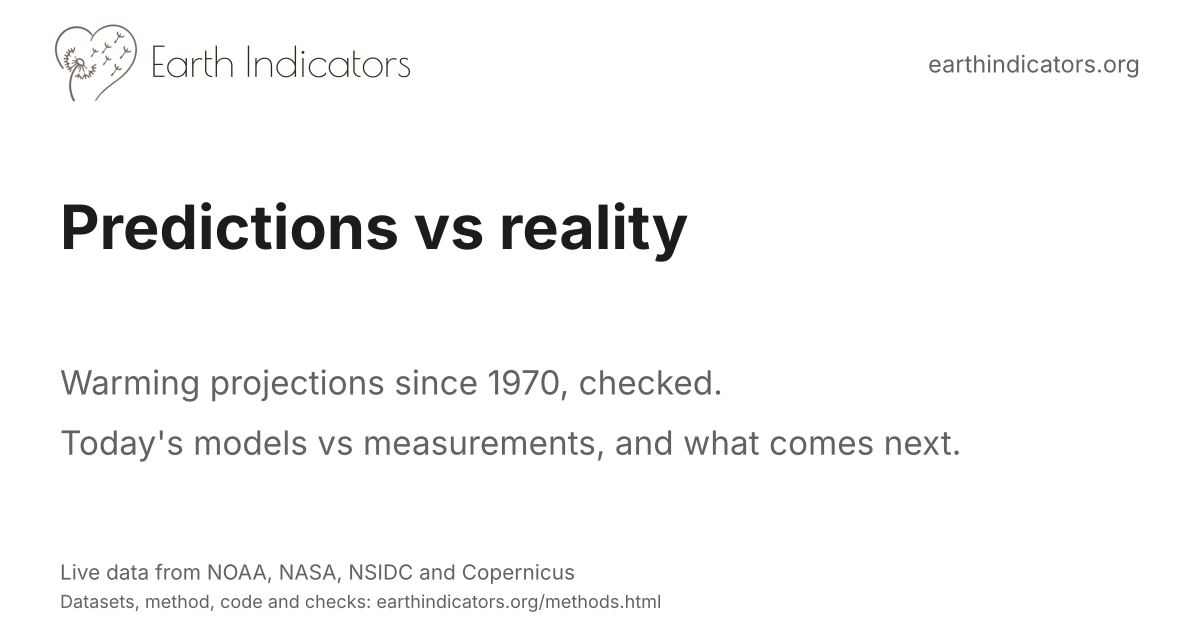
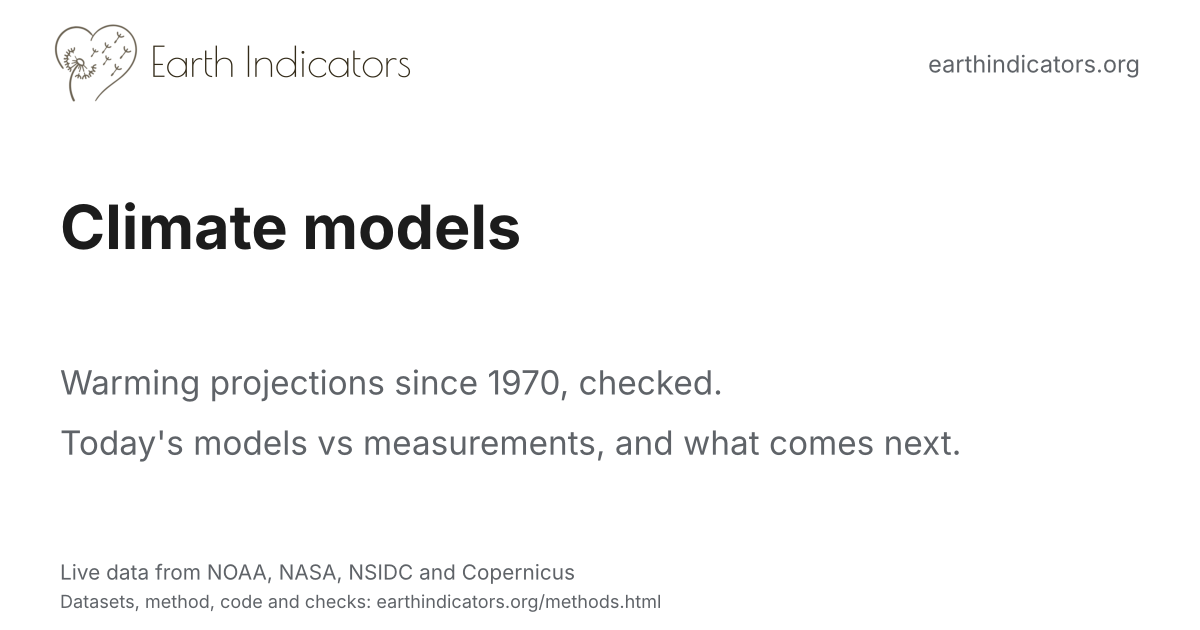
Rename the models page to 'Climate models'
Claude-Session: https://claude.ai/code/session_013LxkotPgQUiNj3gzWxaw7d

Changed region(s): [[0.0308, 0.3016, 0.5858, 0.4222]]

diff --git a/methods.html b/methods.html
@@ -52,7 +52,7 @@
 </dl>
 
 <ul class="toc">
-<li><a class="nb" href="#air">Air temperature</a></li><li><a class="nb" href="#nino">El Niño</a></li><li><a class="nb" href="#pdo">PDO</a></li><li><a class="nb" href="#sun">The Sun</a></li><li><a class="nb" href="#sst">Sea surface temperature</a></li><li><a class="nb" href="#ohc">Ocean heat</a></li><li><a class="nb" href="#sea-level">Sea level</a></li><li><a class="nb" href="#water">Water vapor</a></li><li><a class="nb" href="#sea-ice">Sea ice</a></li><li><a class="nb" href="#land-ice">Land ice</a></li><li><a class="nb" href="#co2">CO₂</a></li><li><a class="nb" href="#ch4">Methane</a></li><li><a class="nb" href="#ghg">Other greenhouse gases</a></li><li><a class="nb" href="#eei">Energy imbalance</a></li><li><a class="nb" href="#models">Predictions</a></li><li><a class="nb" href="#reuse">Reproducing and citing</a></li>
+<li><a class="nb" href="#air">Air temperature</a></li><li><a class="nb" href="#nino">El Niño</a></li><li><a class="nb" href="#pdo">PDO</a></li><li><a class="nb" href="#sun">The Sun</a></li><li><a class="nb" href="#sst">Sea surface temperature</a></li><li><a class="nb" href="#ohc">Ocean heat</a></li><li><a class="nb" href="#sea-level">Sea level</a></li><li><a class="nb" href="#water">Water vapor</a></li><li><a class="nb" href="#sea-ice">Sea ice</a></li><li><a class="nb" href="#land-ice">Land ice</a></li><li><a class="nb" href="#co2">CO₂</a></li><li><a class="nb" href="#ch4">Methane</a></li><li><a class="nb" href="#ghg">Other greenhouse gases</a></li><li><a class="nb" href="#eei">Energy imbalance</a></li><li><a class="nb" href="#models">Climate models</a></li><li><a class="nb" href="#reuse">Reproducing and citing</a></li>
 </ul>
 
 <section class="m" id="air"><h2>Air temperature</h2><p class="pg">Used on: <a href="air.html">Air temperature</a>, the overview and the claims page.</p><dl>
@@ -123,7 +123,7 @@
 <dt>Code</dt><dd><a href="https://github.com/Yoyojolanda/earthindicators/blob/main/scripts/build_slow.py">build_slow.py</a>, run by <a href="https://github.com/Yoyojolanda/earthindicators/blob/main/.github/workflows/update-slow.yml">update-slow.yml</a>.</dd>
 <dt>Data as used</dt><dd><a href="data/amoc_rapid_monthly.csv">amoc_rapid_monthly.csv</a>, <a href="data/redlist_index_world.csv">redlist_index_world.csv</a>.</dd>
 </dl></section>
-<section class="m" id="models"><h2>Predictions vs reality</h2><p class="pg">Used on: <a href="models.html">Predictions vs reality</a>.</p><dl>
+<section class="m" id="models"><h2>Climate models</h2><p class="pg">Used on: <a href="models.html">Climate models</a>.</p><dl>
 <dt>Past projections</dt><dd>Hausfather, Drake, Abbott and Schmidt 2020, Evaluating the performance of past climate model projections, Geophysical Research Letters 47, e2019GL085378 (<a href="https://doi.org/10.1029/2019GL085378">doi:10.1029/2019GL085378</a>), files from the authors' repository (<a href="https://github.com/hausfath/OldModels">github.com/hausfath/OldModels</a>, MIT license): each projection's warming rate over its test period (single_model_trends.csv, "model_time") and the difference from the measured rate with its uncertainty (model_obs_time_diffs.csv). "Matched" means that uncertainty range includes zero, as in the paper. The page quotes the study's own counts (10 of 17 projections matched; 14 of 17 in the second test); the study's data files hold 18 entries, including all three Hansen 1988 scenarios, and all 18 are shown with their verdicts. The measured rate shown next to each projection is the least-squares trend of yearly ERA5 means over the same years, calculated by the page; the study's own measured rates came from several surface temperature records. The second test (14 of 17), which compares warming with the change in forcing, is quoted from the paper.</dd>
 <dt>Hansen 1988</dt><dd>Scenarios A, B and C from Hansen et al. 1988 (<a href="https://doi.org/10.1029/JD093iD08p09341">doi:10.1029/JD093iD08p09341</a>), temperature and greenhouse-gas forcing as digitized in the same repository ("Model timeseries.xlsx", 1958–2017). ERA5 yearly means are shifted so their 1958–1987 average equals scenario B's. Measured forcing: well-mixed greenhouse gases (CO₂, methane, nitrous oxide and halogenated gases), best estimate, from the Indicators of Global Climate Change 2025 (ERF_best_aggregates.csv, <a href="https://github.com/ClimateIndicator/data">github.com/ClimateIndicator/data</a>), minus its 1958 value.</dd>
 <dt>Climate models (CMIP6)</dt><dd>Global mean near-surface air temperature (tas) above 1850–1900 for one run (r1i1p1f1) of each model, historical and SSP2-4.5, computed by Neil Swart, CCCma (<a href="https://github.com/swartn/cmip6-gmst-anoms">github.com/swartn/cmip6-gmst-anoms</a>, Open Government License – Canada). Only the 16 models with every year in both experiments are used. For each year the script takes the lowest and highest value, the median and the 17th and 83rd percentiles (the middle two-thirds). Measured: ERA5 yearly means from the monthly world series, complete years only, minus their 1991–2020 average plus 0.88 °C (Copernicus's offset to 1850–1900).</dd>

diff --git a/models.html b/models.html
@@ -5,18 +5,18 @@
 <script>try{var t=localStorage.getItem("ei-theme");if(t)document.documentElement.dataset.theme=t}catch(e){}</script>
 <meta name="theme-color" content="#ffffff" media="(prefers-color-scheme: light)">
 <meta name="theme-color" content="#14120e" media="(prefers-color-scheme: dark)">
-<title>Predictions vs reality</title>
+<title>Climate models</title>
 <link rel="icon" href="img/favicon.svg" type="image/svg+xml">
 <link rel="apple-touch-icon" href="img/apple-touch-icon.png">
 <meta property="og:type" content="website">
 <meta property="og:site_name" content="Earth Indicators">
-<meta property="og:title" content="Climate models: predictions vs reality, and what comes next">
+<meta property="og:title" content="Climate models: past projections checked, and what comes next">
 <meta property="og:description" content="Seventeen warming projections from 1970 to 2007 checked against what happened, Hansen's 1988 scenarios, today's climate models against measurements, and what the models say comes next: IPCC scenarios, the remaining carbon budget and the WMO 5-year outlook.">
 <meta property="og:url" content="https://earthindicators.org/models.html">
 <meta property="og:image" content="https://earthindicators.org/og/models.png">
 <meta property="og:image:width" content="1200">
 <meta property="og:image:height" content="630">
-<meta property="og:image:alt" content="Climate models: predictions vs reality, and what comes next">
+<meta property="og:image:alt" content="Climate models: past projections checked, and what comes next">
 <meta name="twitter:card" content="summary_large_image">
 <meta name="description" content="Seventeen warming projections from 1970 to 2007 checked against what happened, Hansen's 1988 scenarios, today's climate models against measurements, and what the models say comes next: IPCC scenarios, the remaining carbon budget and the WMO 5-year outlook.">
 <script src="https://cdnjs.cloudflare.com/ajax/libs/Chart.js/4.4.1/chart.umd.min.js"></script>
@@ -40,7 +40,7 @@ h2.sec{font-size:20px;margin:28px 0 6px}
 @media (max-width:600px){.wrap.tall{height:600px}}
 @media print{.wrap.tall{height:420px}}
 </style></head><body><main>
-<h1>Predictions vs reality</h1>
+<h1>Climate models</h1>
 <nav class="nav" id="nav"><button id="exp" class="nb" type="button" disabled>Export charts as JPG</button></nav><script src="site.js"></script>
 <p class="sub">"The models are always wrong" is one of the most common claims about climate change. It can be checked: scientists have published warming projections since 1970, and the years they were predicting have now happened. The first half of this page compares those predictions, and today's climate models, with what was measured. The second half shows what the models say comes next. That part cannot be checked yet, so it is marked as projection throughout.</p>
 <p class="key"><b>How to read the charts:</b> solid lines and bars are measurements; dashed lines and hatched bars come from models, projections or estimates.</p>
@@ -292,5 +292,5 @@ Promise.allSettled([
   .then(([O,E,M,D])=>{const parts=[()=>oldModels(O,E),()=>hansen(O,E),()=>cmip(M,E),()=>ar6(D,E),()=>budget(D),()=>wmo(D)],bad=[];
    parts.forEach((f,i)=>{try{f()}catch(e){console.error(e);bad.push(i)}});if(bad.length)throw bad})
 ]).then(r=>{if(r[0].status==='rejected'){console.error(r[0].reason);$('err').textContent='Could not load all of the data. Please try again later.'}});
-$('exp').onclick=()=>{const L=[[C.o,'t1',0],[C.h,'t2',0],[C.m,'t3',0],[C.a,'t4',0],[C.b,'t5',0]].filter(x=>x[0]);if(L.length)siteExport(L,'predictions-vs-reality.jpg')};
+$('exp').onclick=()=>{const L=[[C.o,'t1',0],[C.h,'t2',0],[C.m,'t3',0],[C.a,'t4',0],[C.b,'t5',0]].filter(x=>x[0]);if(L.length)siteExport(L,'climate-models.jpg')};
 </script></main></body></html>

diff --git a/index.html b/index.html
@@ -120,8 +120,8 @@ $('groups').insertAdjacentHTML('beforeend',`<section class="grp"><h2>Slow signal
 SLOW.forEach(([id,f])=>EI.get(id).then(r=>{const [v,l]=f(r),m=$('m-'+id);m.querySelector('b').textContent=v;m.querySelector('span').textContent=l;m.querySelector('small').textContent=`${r.src}, data for ${r.through}`;if(r.spark&&r.spark.length>2)spark(m.querySelector('canvas'),r.spark,r.bars)})
  .catch(e=>{console.error(e);$('m-'+id).querySelector('b').textContent='–'}));
 
-// ---- predictions vs reality: one wide tile; the published numbers come from the models page's data files
-$('groups').insertAdjacentHTML('beforeend',`<section class="grp"><h2>Predictions vs reality</h2><p>Warming projections have been published since 1970, so they can be checked.<br>The last two numbers are projections and estimates, not measurements.</p><div class="tiles"><a class="tile wide" href="models.html"><h3>Past projections, today's models, and what comes next</h3><div class="slowgrid" id="mdl"></div><p class="why">Most misses came from guessing future emissions, not from the physics. What comes next depends on how much more CO₂ is emitted.</p><span class="go">See predictions vs reality →</span></a></div></section>`);
+// ---- climate models: one wide tile; the published numbers come from the models page's data files
+$('groups').insertAdjacentHTML('beforeend',`<section class="grp"><h2>Climate models</h2><p>Warming projections have been published since 1970, so they can be checked.<br>The last two numbers are projections and estimates, not measurements.</p><div class="tiles"><a class="tile wide" href="models.html"><h3>Past projections, today's models, and what comes next</h3><div class="slowgrid" id="mdl"></div><p class="why">Most misses came from guessing future emissions, not from the physics. What comes next depends on how much more CO₂ is emitted.</p><span class="go">See the climate models page →</span></a></div></section>`);
 Promise.all(['models_old.json','models_outlook.json'].map(f=>fetch('data/'+f).then(r=>{if(!r.ok)throw 0;return r.json()}))).then(([O,D])=>{
  const B=D.budget,em=B.emissions.fossil+B.emissions.land;
  $('mdl').innerHTML=[['10 of 17','warming projections from 1970–2007 matched what followed','Hausfather et al. 2020'],

diff --git a/claims.html b/claims.html
@@ -461,7 +461,7 @@
 <ul>
  <li>The basics are measured: CO₂ rising, the extra heat it traps seen by satellites, the oceans gaining heat. <a href="ohc.html">See the ocean heat data</a></li>
  <li>The fingerprint is measured too: the upper atmosphere cooling while the surface warms, and nights warming faster than days. A brighter sun would warm both layers and the days most.</li>
- <li>Models published since the 1970s mostly projected the warming that followed (Hausfather et al. 2020), and today's models track the measurements. <a href="models.html">See predictions vs reality</a></li>
+ <li>Models published since the 1970s mostly projected the warming that followed (Hausfather et al. 2020), and today's models track the measurements. <a href="models.html">See the models page</a></li>
  <li>Models do disagree on details, such as rain in a given region. "Not exact" isn't the same as "don't know".</li>
 </ul>
 <p class="src">Sources: <a href="https://doi.org/10.1029/2019GL085378">Hausfather et al. 2020, Geophysical Research Letters</a>; <a href="https://www.ipcc.ch/report/ar6/wg1/chapter/summary-for-policymakers/">IPCC AR6 Working Group I, Summary for Policymakers</a>; data: NOAA NCEI</p>

diff --git a/site.js b/site.js
@@ -39,7 +39,7 @@
     ['eei.html',       'Energy imbalance'],
     ['water.html',     'Water cycle'],
     ['slow.html',      'Slow signals'],
-    ['models.html',    'Predictions'],
+    ['models.html',    'Climate models'],
   ];
 
   // Indicators dropdown: one column per group (same story as the overview page), side by side on computers.

diff --git a/scripts/build_og.py b/scripts/build_og.py
@@ -67,5 +67,5 @@ if __name__ == "__main__":
         live(page, d)
     fixed("index", "Is the climate changing?", "Every major indicator, updated automatically,\nin plain words.")
     fixed("claims", "Common climate claims,\nanswered with the latest data", "From \u201cit's cooling\u201d to \u201cit's too late\u201d:\nshort answers, live numbers, one link per answer.")
-    fixed("models", "Predictions vs reality", "Warming projections since 1970, checked.\nToday's models vs measurements, and what comes next.")
+    fixed("models", "Climate models", "Warming projections since 1970, checked.\nToday's models vs measurements, and what comes next.")
     print("drew the images:", ", ".join(list(data) + ["index", "claims", "models"] + (["slow"] if has_slow else [])))
